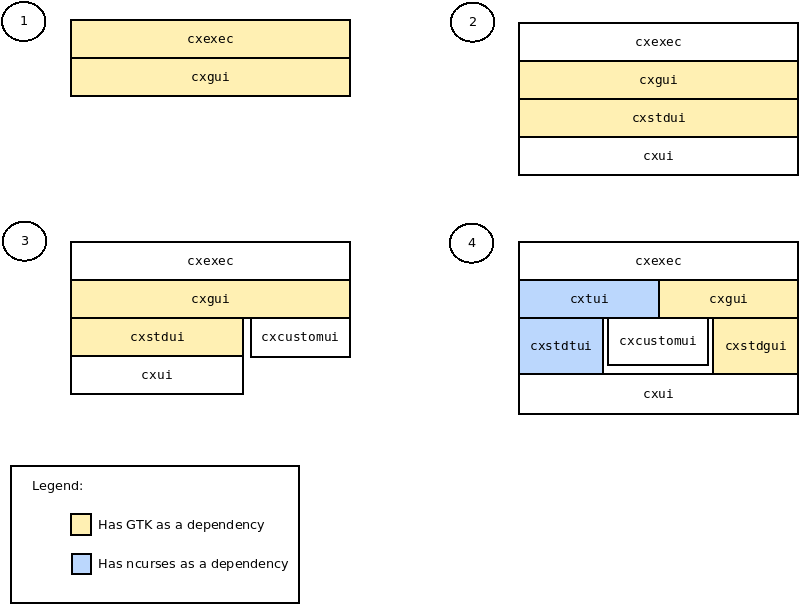
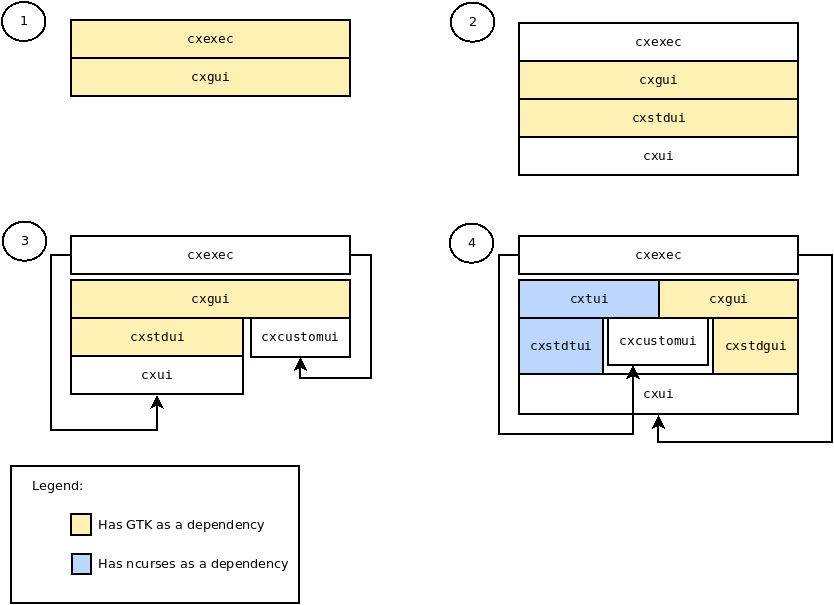
TG-321 Architecture document reviewed.
A full relecture was done, and multiple small corrections done. I
consider this working document complete.

diff --git a/prototypes/widgetsFactory/architecture.md b/prototypes/widgetsFactory/architecture.md
@@ -11,9 +11,9 @@
 <a name="motivation"></a>
 ## 1. Motivation
 While Gtkmm is a GUI library which is fun to work with, its API is pretty unstable. From
-ong version to another majors API changes frequently occurs, which make maintenance a pain.
+one version to another majors API changes frequently occur, which make maintenance a pain.
 Much effort is put into the UI code, which is later broken by these API changes. The
-views code depend directly on Gtkmm which triggers views code changes to restore
+view code depends directly on Gtkmm which triggers view code changes to restore
 functionnalities that were broken by Gtkmm API changes. These changes can result in new
 bugs that can creep in, unnoticed. Lastly, if one of these changes ever breaks too
 much functionnalities and that a migration to another toolkit is needed, it is going
@@ -21,23 +21,22 @@ to be really hard with the current state of things because too much code depend
 directly on Gtkmm.
 
 Since Gtkmm3 is now deprecated and that Gtkmm4 will soon be the new standard on Ubuntu LTS
-distros (and many others), a migration was needed. I have decided to take advantage of
+distros (and many others), a migration is needed. I have decided to take advantage of
 this. The migration will not happen by simple "call replacements", but rather I will
 add an indirection layer between the views and the Gtkmm related code, freeing myself
 from it at the same time. With this approach, later migrations should be easier and
-much less risky. Moving to another framework (if that ever becomes a need) also.
+much less risky. Moving to another framework also (if that ever becomes a need).
 
 
 <a name="architecture-overview"></a>
 ## 2. Architecture overview
 To achieve this, the *Abstract Factory* design pattern is going to be used. I have been
 wanting to try this pattern for a while, and this seems like the perfect application
-for it. It even is the application described in the GOF book.
-
+for it. It even is the application described in the GOF book to introduce the pattern.
 The basic idea is that the underlying GUI toolkit must be completely encapsulated,
 such that the Connect X application code nevers knows what toolkit it is actually
 using. This additionnal level of indirection will come into the form of an abstract
-widgets factory: 
+widgets factory:
 
 ![Abstract factory (high level)](./architecture.png)
 
@@ -51,7 +50,7 @@ Creating these widgets will be the responsibility of the abstract factory, which
 will have an implementation for all supported toolkits. The abstracty factory
 will select the needed implementation at construction time and from there, will
 create the widgets using the appropriate implementation, while only making the abstract
-interfaces available ton Connect X.
+interfaces available to Connect X.
 
 
 <a name="specific-framework-elements"></a>
@@ -71,17 +70,17 @@ for creating a button could look something like this:
 std::unique<IButton> button = factory.CreateButton();
 ```
 
-where the type `IButton` is GUI toolkit agnostic. It should only know about
+where the type `IButton` is UI toolkit agnostic. It should only know about
 `std` and Connect X types, nothing more. Like in most GUI toolkits, the
 widgets get more and more specialized through inheritance. So one could
 also write:
 
 ```c++
-std::unique_ptr<IWidget> button factory.CreateButton();
+std::unique_ptr<IWidget> button = factory.CreateButton();
 ```
 
 if all that is needed later on is the generic `IWidget` interface. For reasons
-that will become clear in the next section, all specific widgets implementations
+that will become clear in the next section, all specific widget implementations
 should also publicly inherit from the toolkit's interface for that widget. For
 example, the button implementation for the Gtkmm toolkit would look something
 like:
@@ -101,14 +100,14 @@ the implementation. More on this later.
 
 
 ### 3.2. Containers
-Containers are a type of GUI element that is not directly visible by the
+Containers are a type of UI element that is not directly visible by the
 user of the software. Their task is to spatially arrange widgets inside
-the window. In GTK, they are known as containers, in Qt, they are known
+the window. In GTKmm, they are known as containers, in Qt, they are known
 as layouts.
 
-One important detail about containers is that they *are* not widgets, they
+One important detail about containers is that they *are not* widgets, they
 *contain* widgets. Another important detail is that their implementation
-needs to know about the underlying GUI toolkit for the widgets they are
+needs to know about the underlying UI toolkit for the widgets they are
 manipulating. For example, let's say we have this container class:
 
 ```c++
@@ -137,17 +136,17 @@ private:
 ```
 
 The Gtkmm 3 `Add` implementation cannot add the button because all it knows
-about is the `IButton` interface, which is Gtkmm agnostic. This is where we,
+about is the `IWidget` interface, which is Gtkmm agnostic. This is where we,
 as implementers of the abstract factory, will use our private knowledge that
-in this case, `p_button` also inherits from `Gtk::Button` (see previous section).
+in this case, `p_widget` also inherits from `Gtk::Widget` (see previous section).
 Because of this, we can use casting to solve the problem:
 
 ```c++
-void Add(IButton& p_button) override
+void Add(IWidget& p_widget) override
 {
-    Gtk::Button* gtkmmButton = dynamic_cast<Gtk::Button*>(p_button);
-    assert(gtmkkButton);
-    m_grid.attach(*gtkmmButton, 0, 0, 1, 1);
+    Gtk::Widget* gtkmmWidget = dynamic_cast<Gtk::Widget*>(p_widget);
+    assert(gtmmWidget);
+    m_grid.attach(*gtkmmWidget, 0, 0, 1, 1);
 }
 ```
 Note that the assertion should always hold, since we designed for it.
@@ -156,7 +155,7 @@ Note that the assertion should always hold, since we designed for it.
 ### 3.3. Windows
 Since windows are visible by the user, they inherit from the `IWidget`
 interface. Windows can do two things: register a layout and show themselves.
-Showing themselves (becoming visible to the user) in inherited from the
+Showing themselves (becoming visible to the user) is inherited from the
 `IWidget` interface. Layout registering is specific. Only one layout can
 be registered (owned), and it holds all the window's child widgets.
 
@@ -164,7 +163,7 @@ be registered (owned), and it holds all the window's child widgets.
 ### 3.4. Connecting to signals
 Signal handling is an important part of widget interactions. It is through
 these that user can interact with the system. Because the Gtkmm signaling
-technology is so nice, it is the design which will be used for the widget
+technology is so nice, it is the design which will be used for the widgets
 factory as well. What I like about the Gtkmm signaling system:
 
  1. It is strong typed: If you fail to provide the right slot signature
@@ -193,12 +192,12 @@ public:
 };
 ```
 The `Connect` method is provided a slot which has `ReturnType` as its
-return type and `Arguments...` as its arguments types. The parameter pack
+return type and `Arguments...` as its arguments' types. The parameter pack
 makes it possible for a slot to have any given number of arguments of
 any desired type. This method is the core of the strong typing.
 
 For any signal you want to expose, you must implement the `ISignal` interface
-and provide the return and arguments types for the corresponding slot. The
+and provide the return and argument types for the corresponding slot. The
 `ISignal::Connect` method returns a connection instance, which you can
 reference for later (in case you need to disconnect the slot, at some later
 point in time). In production code, connection to a signal will look
@@ -259,7 +258,8 @@ toolkit implementations to refine it.
 
 Furthermore, these custom widgets, build on top of the toolkit, should
 not be created by the same abstract factory instance that is used to
-decouple the toolkits specific widgets. 
+decouple the toolkits specific widgets, to make sure the standard
+widgets factory is reusable in another context if needed.
 
 
 ### 4.1. Separating Connect X specific widgets
@@ -271,9 +271,9 @@ is (in this fictious example), Connect X related only.
 
 ![A Connect X specific widgets factory](./connectxspecific.png)
 
-All widget, wether "base" widgets or Connect X specific, implement
+All widgets, wether base widgets or Connect X specific, implement
 the `IWidget` interface. This makes it possible to add all types
-of widgets to layouts.
+of widgets to containers.
 
 ### 4.2. Updating the layering for widget libraries
 The addition of Connect X specific widgets calls for reviewing the
@@ -285,15 +285,15 @@ Consider the following:
 #### 4.2.1. First layering strategy (1)
 This is the current strategy. All widgets (Connect X specific or not)
 are contained within the `cxgui` library. The `cxexec` library, on the
-other hand, handles the GTK specific initialization. This means that
-everywhere, GTK is known (i.e. it is a dependency).
+other hand, handles the GTKmm specific initialization. This means that
+everywhere, GTKmm is known (i.e. it is a dependency).
 
 #### 4.2.2. Second layering strategy (2)
 The abstract factory pattern allows for a `cxui` layer, which consists
-of a set of reusable "base" widget interfaces, as well as the
+of a set of reusable base widget interfaces, as well as the
 general purpose widget abstract factory interface. In this
 layer, there are no concrete classes, and GTK is not a dependency.
-This is where, for example, `IWidget` and `IButton` live. 
+This is where, for example, `IWidget` and `IButton` live.
 
 Standard widgets (the concrete edit box and button) as well
 as their factories live in a seperate layer, `cxstdui` on
@@ -302,10 +302,10 @@ as a porting buffer and, in the end,  accomodates all widgets
 that are not standard and do not fit in the `cxui` and `cxstdui`
 libraries.
 
-Also, at this point, the `cxexec` library does not depend on GTK
-anymore: all the concrete GTK initialization code has been hidden
+Also, at this point, the `cxexec` library does not depend on GTKmm
+anymore: all the concrete GTKmm initialization code has been hidden
 behind an interface living in `cxui` and the `cxexec` library only
-instanciates the toolkit indrectly, through this interface.
+instantiates the toolkit indrectly, through this interface.
 
 #### 4.2.3. Third layering strategy (3)
 A second abstract factory splits the responsibilities of creating
@@ -316,6 +316,10 @@ widgets could be reused in another application by linking to the
 `cxui` and `cxstdui` libraries. The `cxgui` library contains the
 implementations for the Connect X specific widget interfaces defined
 in the `cxcustomui` library.
+
+At this point, `cxexec` is completely decoupled from the concrete
+UI code, it only uses libraries providing abstractions and is
+completely UI toolkit agnostic, even at link time.
 
 #### 4.2.4. Final layering strategy (4)
 This layering strategy is only a possible extension of what was
@@ -337,17 +341,17 @@ both standard and Connect X specific widgets, both factories
 would need to be injected, and the user would need to remember
 which one to use any time a new widget would be instanciated.
 
-To avoid this duplication, a class is created to access the
+To avoid this duplication, a facade class is created to access the
 factories from a single location:
 
 ```c++
-class WidgetsFactories
+class WidgetsFactoriesFacade
 {
 
 public:
 
-    WidgetsFactories(std::unique_ptr<IAbstractWidgetsFactory> p_toolkitFactory,
-                    std::unique_ptr<IConnectXAbstractWidgetsFactory> p_connectXSpecificFactory)
+    WidgetsFactoriesFacade(std::unique_ptr<IAbstractWidgetsFactory> p_toolkitFactory,
+                           std::unique_ptr<IConnectXAbstractWidgetsFactory> p_connectXSpecificFactory)
     : m_toolkitFactory{std::move(p_toolkitFactory)}
     , m_connectXSpecificFactory{std::move(p_connectXSpecificFactory)}
     {}
@@ -397,12 +401,12 @@ overload for registering widgets using the `Gtk::Widget` interface will
 be added:
 
 ```c++
-class ILayout
+class IContainer
 {
 
 public:
 
-    virtual ~ILayout() = default;
+    virtual ~IContainer() = default;
 
     virtual void Attach(IWidget& p_widget, int p_left, int p_top) = 0;
 
